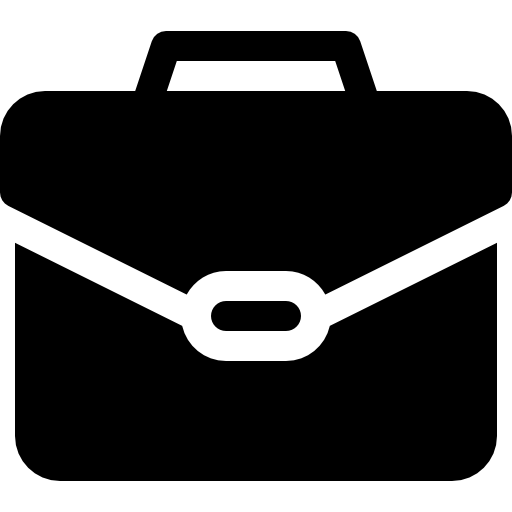
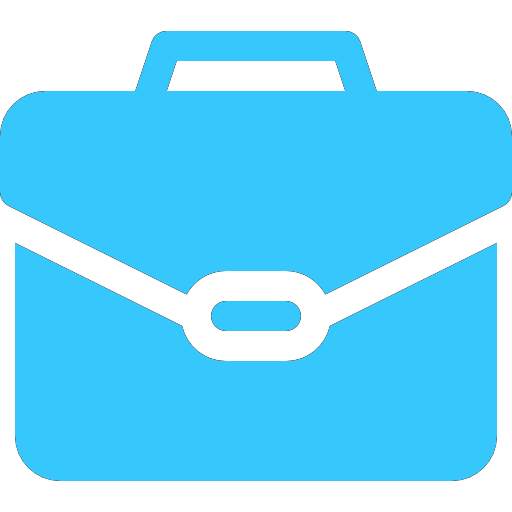
Update 1.4

diff --git a/index.html b/index.html
@@ -10,12 +10,12 @@
[1 lines of base64/hex data omitted]
         crossorigin="anonymous">
         <link rel="stylesheet" href="https://cdn.jsdelivr.net/npm/bootstrap-icons@1.3.0/font/bootstrap-icons.css">
-        <link rel="icon" href="portfolio-icon.png" type="image/x-icon">
+        <link rel="icon" href="Images/portfolio-icon.png" type="image/x-icon">
         <link href="bootstrap.min.css" rel="stylesheet" >
         <link href="custom.css" rel="stylesheet" >
 
 
-        <title>Portfolio | Calvin Ryndell Designs</title>
+        <title>Home | Calvin Ryndell Designs</title>
 
     </head>
 
@@ -67,29 +67,26 @@
             </header>
             <div class="singleCol mx-auto my-5">
                 <div class="container">
-                    <h2 class="text-center">Looking for a Web Page? I got you.</h2>
+                    <h2 class="text-center">On the lookout for Web Design? I got you.</h2>
                     <p class="lead">
-                        Lorem ipsum dolor sit amet, consectetur adipiscing elit. Morbi in arcu mauris. 
-                        Fusce consequat a dolor nec tincidunt. In sed dictum turpis. Fusce tristique urna 
-                        in risus porttitor porttitor. Aliquam volutpat ipsum nisl, a sagittis quam efficitur eu. 
-                        Sed ornare mollis pellentesque. Morbi mollis malesuada metus eu pretium. In ut tempor purus, 
-                        eu imperdiet dui. Sed massa velit, sagittis a tortor at, posuere faucibus sem. Aliquam erat volutpat.
+                        Web Design is an all encompassing type of service. Anything can be made into a website,
+                        whether it's for a business, school, promotion or entertainment, the convenience of having
+                        a website in this modern age is of great benefit to any group, company, or person when done correctly.
                     </p>
 
                     <p>
-                        Lorem ipsum dolor sit amet, consectetur adipiscing elit. Morbi in arcu mauris. 
-                        Fusce consequat a dolor nec tincidunt. In sed dictum turpis. Fusce tristique urna 
-                        in risus porttitor porttitor. Aliquam volutpat ipsum nisl, a sagittis quam efficitur eu. 
-                        Sed ornare mollis pellentesque. Morbi mollis malesuada metus eu pretium. In ut tempor purus, 
-                        eu imperdiet dui. Sed massa velit, sagittis a tortor at, posuere faucibus sem. Aliquam erat volutpat.
+                        In this Web Page you'll find a showcase of all the Web Designs I've made throughout my College days. It's a collection that
+                        encapsulates the knowledge and progress I've gained and will continue to attain as I press on with my studies.
+                        It's a page that I'll continue to update and add more of my works to as time passes. It'll can serve as the proof of
+                        my passion for Web Design all the while showing how my skills and proficiency in this craft have improved 
+                        as the years go by.
                     </p>
 
                     <p>
-                        Lorem ipsum dolor sit amet, consectetur adipiscing elit. Morbi in arcu mauris. 
-                        Fusce consequat a dolor nec tincidunt. In sed dictum turpis. Fusce tristique urna 
-                        in risus porttitor porttitor. Aliquam volutpat ipsum nisl, a sagittis quam efficitur eu. 
-                        Sed ornare mollis pellentesque. Morbi mollis malesuada metus eu pretium. In ut tempor purus, 
-                        eu imperdiet dui. Sed massa velit, sagittis a tortor at, posuere faucibus sem. Aliquam erat volutpat.
+                        This portfolio also serves the purpose of ease and accessibility. Instead of providing individual links to every web
+                        page I've made thus far, all of them have been conveniently placed here in a palatable manner for the user. In 
+                        addition to that, this site also includes further information about myself along with various ways to get in touch 
+                        with me.
                     </p>
                 </div>
             </div>

diff --git a/portfolio.html b/portfolio.html
@@ -10,7 +10,7 @@
[1 lines of base64/hex data omitted]
         crossorigin="anonymous">
         <link rel="stylesheet" href="https://cdn.jsdelivr.net/npm/bootstrap-icons@1.3.0/font/bootstrap-icons.css">
-        <link rel="icon" href="portfolio-icon.png" type="image/x-icon">
+        <link rel="icon" href="Images/portfolio-icon.png" type="image/x-icon">
         <link href="bootstrap.min.css" rel="stylesheet" >
         <link href="custom.css" rel="stylesheet" >
        

diff --git a/about.html b/about.html
@@ -10,7 +10,7 @@
[1 lines of base64/hex data omitted]
         crossorigin="anonymous">
         <link rel="stylesheet" href="https://cdn.jsdelivr.net/npm/bootstrap-icons@1.3.0/font/bootstrap-icons.css">
-        <link rel="icon" href="portfolio-icon.png" type="image/x-icon">
+        <link rel="icon" href="Images/portfolio-icon.png" type="image/x-icon">
         <link href="bootstrap.min.css" rel="stylesheet" >
         <link href="custom.css" rel="stylesheet" >
 

diff --git a/contact.html b/contact.html
@@ -10,7 +10,7 @@
[1 lines of base64/hex data omitted]
         crossorigin="anonymous">
         <link rel="stylesheet" href="https://cdn.jsdelivr.net/npm/bootstrap-icons@1.3.0/font/bootstrap-icons.css">
-        <link rel="icon" href="portfolio-icon.png" type="image/x-icon">
+        <link rel="icon" href="Images/portfolio-icon.png" type="image/x-icon">
         <link href="bootstrap.min.css" rel="stylesheet" >
         <link href="custom.css" rel="stylesheet" >
 

diff --git a/custom.css b/custom.css
@@ -13,6 +13,7 @@ header {
     color: white;
 }
 
+
 .navbar-light .navbar-toggler {
     color: aliceblue;
     border-color: aliceblue;
@@ -36,8 +37,8 @@ header {
 }
 
 .active, .nav-link:hover {
-    background-color: rgb(103, 204, 201);
-    border: 2px solid rgb(40, 199, 196);
+    background-color: rgb(103, 191, 204);
+    border: 2px solid rgb(40, 186, 199);
     padding: 4px;
     border-radius: 12px;
     transition: .1s;
